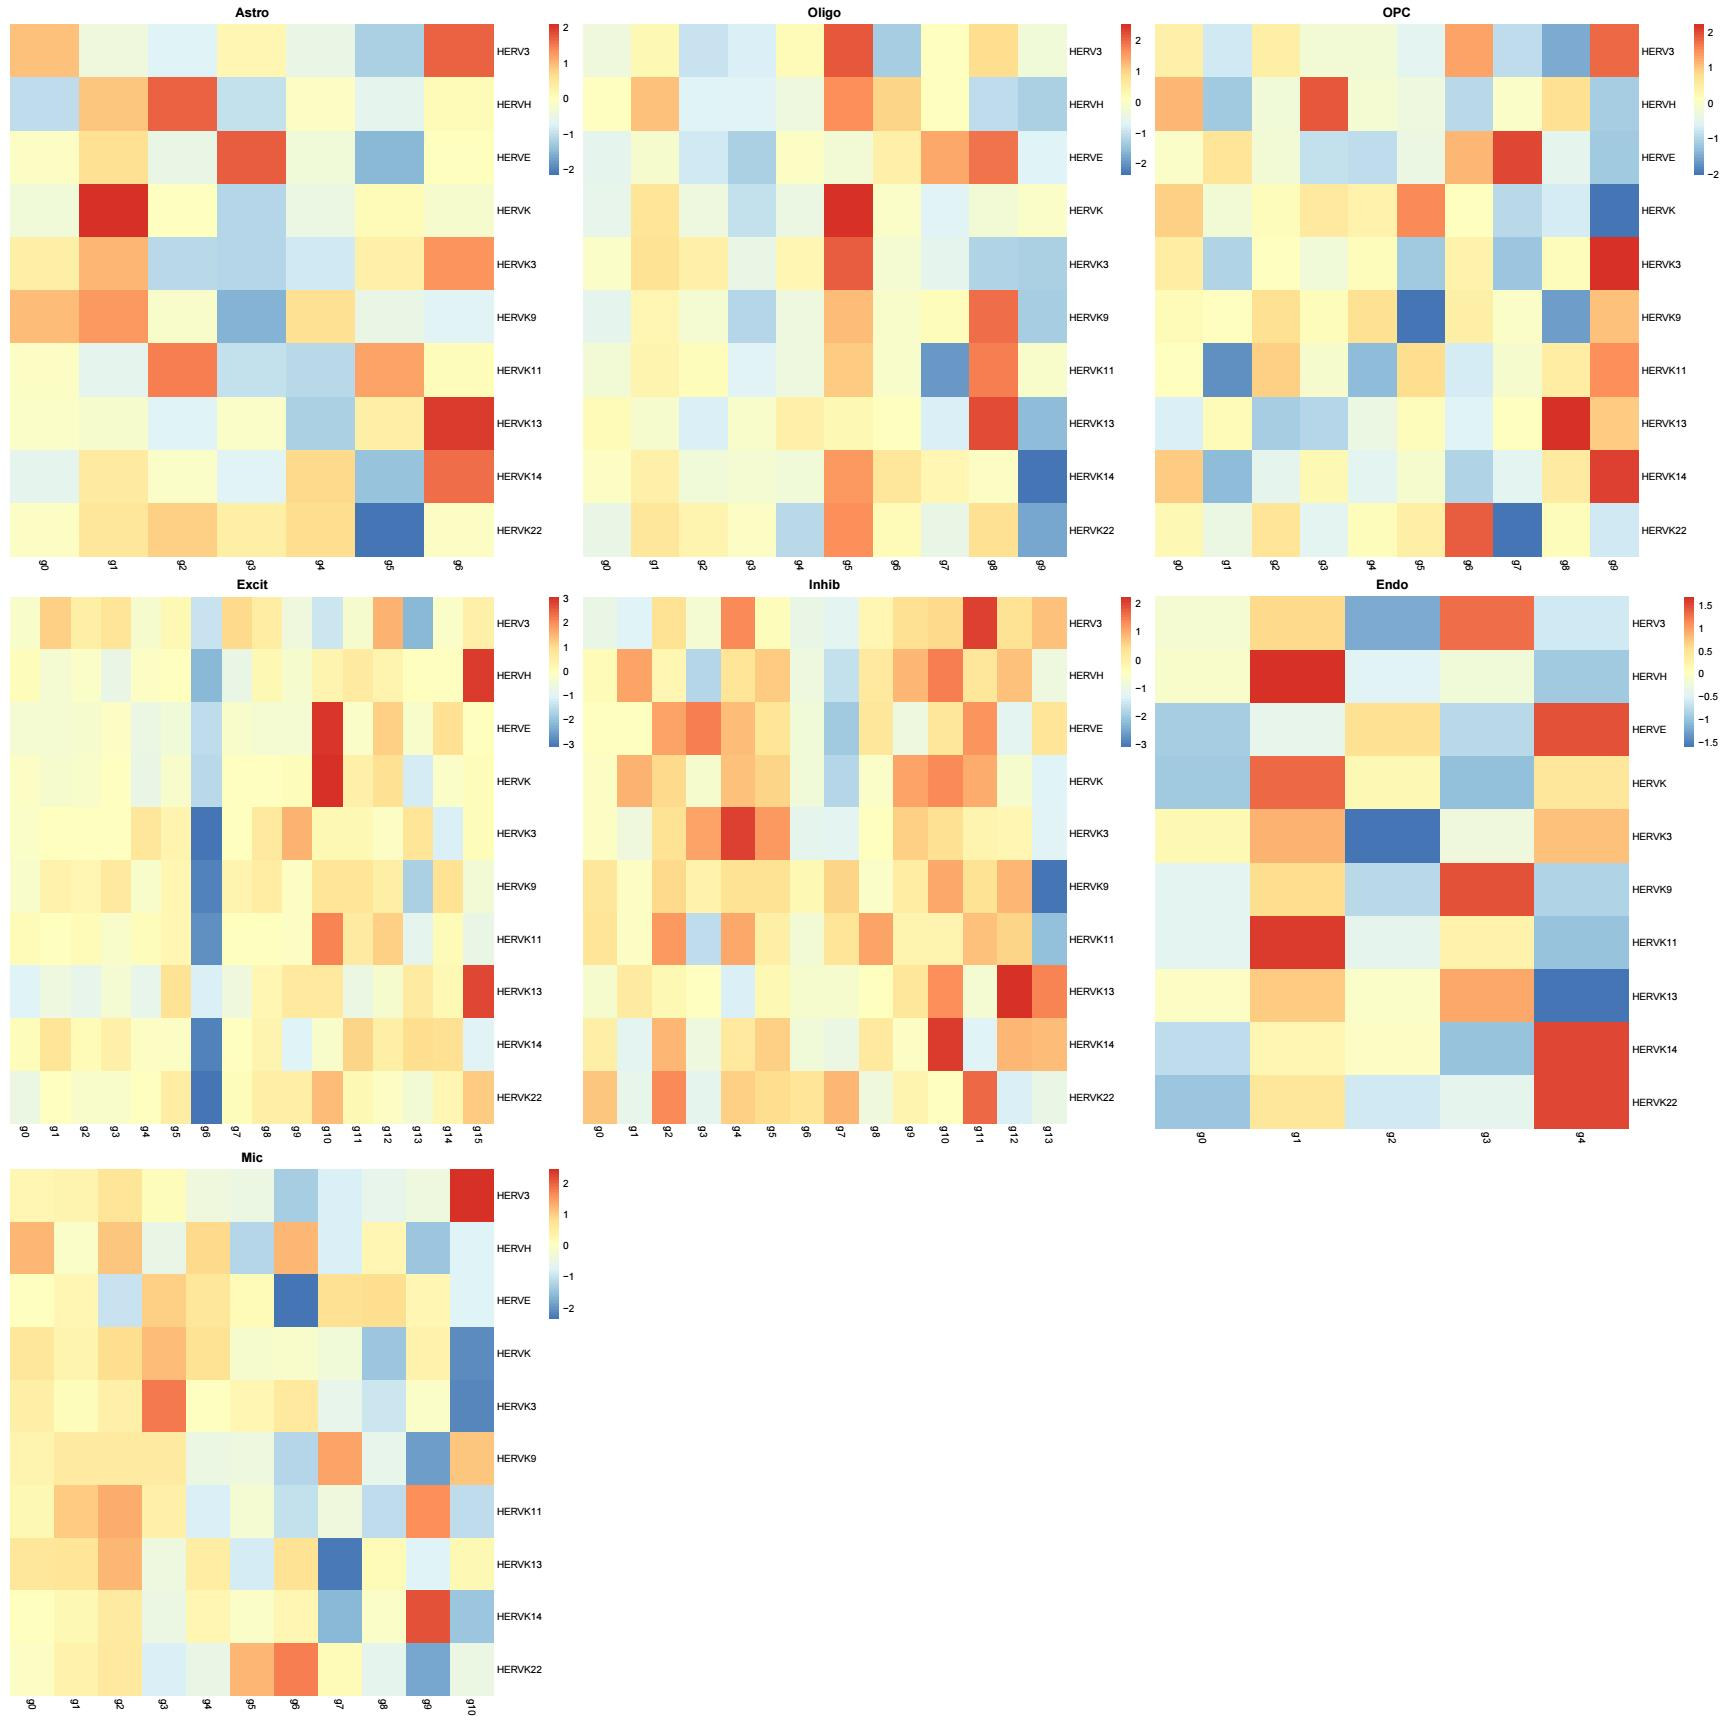
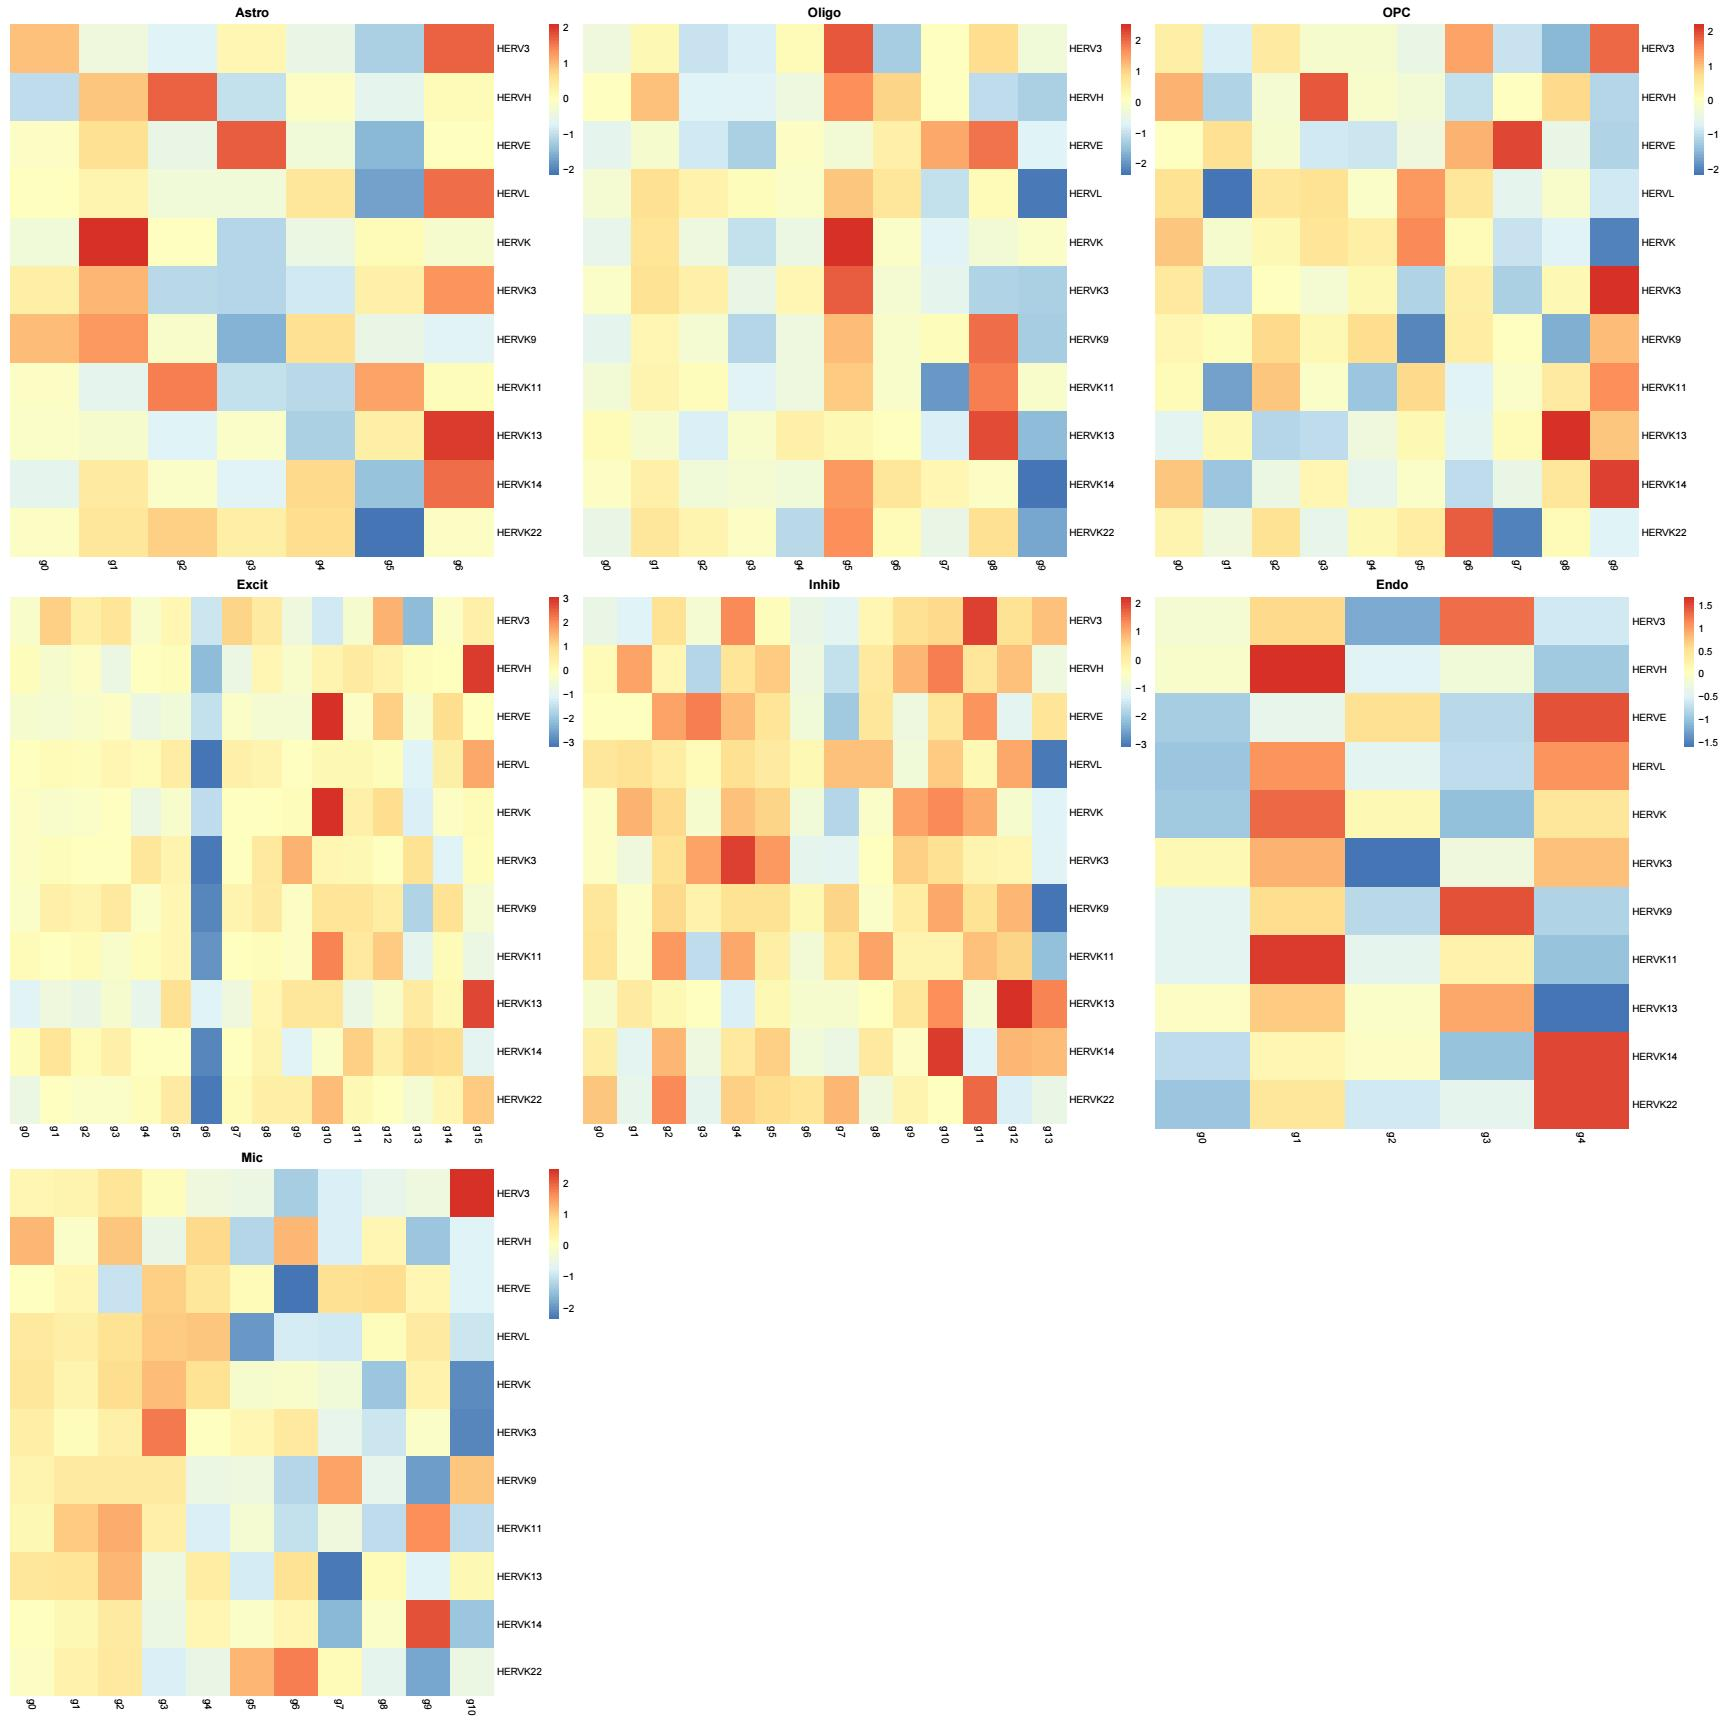
0417

diff --git a/_posts/2022-12-21-my_GSE157827_6.md b/_posts/2022-12-21-my_GSE157827_6.md
@@ -263,21 +263,21 @@ mic的cluster2：
 - hERV更像是反映细胞状态轴的标志，而不是简单的AD/NC二分类标志
 
 主线：
-- **Oligo**：在少突胶质细胞中，hERV高表达并不对应单一转录程序，而是分化为至少三类状态。整体上，hERV更稳定地关联到“广义信号调节/状态重塑”模块。但在具体亚群层面，尤其是**HERVK/HERVK9**相关的状态，又可进一步分化为膜脂与信号重塑、细胞骨架/黏附重塑以及成熟髓鞘化背景下的高翻译/高氧化磷酸化三类程序
-  - cluster 5：更像以**HERVK/HERVK9**为代表的hERV激活型，偏脂质代谢、膜转运、信号/修饰重塑
-  - cluster 3：更像结构重塑/黏附变化/分化相关状态，可能更偏向**HERVK3**关联的细胞骨架和黏附重塑程序
-  - cluster 9：最清楚，GO直接落在cytoplasmic translation/oxidative phosphorylation/ATP metabolic process，这说明它是一个成熟髓鞘化、高代谢、高翻译活性的少突状态，一定程度上说明**HERVK/HERVK9**与成熟髓鞘化-高代谢轴相关
-- **Mic**：在小胶质细胞中，hERV高表达状态更倾向于和广义先天免疫/炎症样激活相关，同时伴随翻译/神经互作相关程序的下降。整体上，以**HERVK9/HERVL**为代表的家族与免疫相关模块的相关性最稳定，部分模块中**HERVH**也参与
-  - cluster 2：AD偏多（比全部Mic中的AD比例多13%），HERVK、尤其**HERVK9**相关家族表达较高。与hERV正相关的pink模块上调，而pink模块富集到defense response to virus/response to virus/defense response to symbiont相关，且DEG包括**TLR2/MX2/MX1**；与hERV负相关的blue模块下调，blue模块与learning/cognition/trans-synaptic signaling/neuron projection morphogenesis相关
-  - 除了pink和blue模块，在整体层面，Mic中**HERVK9/HERVL**还与black模块（先天免疫/抗病原体）及yellow模块（蛋白折叠+免疫效应）相关，提示hERV-high的Mic状态不仅是炎症激活，也可能伴随抗原呈递和应激/蛋白稳态变化
+- **Oligo**：在少突胶质细胞中，hERV高表达并不对应单一转录程序，而是分化为至少三类状态。整体上，hERV更稳定地关联到“广义信号调节/状态重塑”模块。但在具体亚群层面，尤其是**HERVK相关家族和hERVH**相关的状态，又可进一步分化为膜脂与信号重塑、细胞骨架/黏附重塑以及成熟髓鞘化背景下的高翻译/高氧化磷酸化三类程序
+  - cluster 3：**HERVK3**相关的结构重塑/黏附变化状态，对应细胞骨架、黏附及分化相关程序
+  - cluster 5：表现为更广泛的hERV上调，不仅包括**HERVK/HERVK3**，还包括**HERV3/HERVH/HERVL**等多个家族，因此更适合概括为一个多家族共同参与的广义hERV激活/重塑型亚群，其功能偏向脂质代谢、膜转运以及信号/修饰重塑
+  - cluster 9：只有**HERVK11**上调，其他hERV家族整体偏低，一个成熟髓鞘化、高代谢、高翻译活性的少突状态，并与**HERVK11**选择性相关
+- **Mic**：在小胶质细胞中，hERV高表达状态更倾向于和广义先天免疫/炎症样激活相关，同时伴随翻译/神经互作相关程序的下降。整体上，以**HERVK9/HERVL/HERVH**为代表的家族与免疫相关模块的相关性最稳定
+  - cluster 2：AD偏多（比全部Mic中的AD比例多13%），**HERVK相关家族**表达较高。与hERV正相关的pink模块上调，而pink模块富集到defense response to virus/response to virus/defense response to symbiont相关，且DEG包括**TLR2/MX2/MX1**；与hERV负相关的blue模块下调，blue模块与learning/cognition/trans-synaptic signaling/neuron projection morphogenesis相关
+  - 除了pink和blue模块，在整体层面，Mic中**HERVK9/HERVL/HERVH**还与black模块（先天免疫/抗病原体）及yellow模块（蛋白折叠+免疫效应）相关，提示hERV-high的Mic状态不仅是炎症激活，也可能伴随抗原呈递和应激/蛋白稳态变化
 
 支持性结果：
-- **Excit**：提供了一个和神经胶质细胞不同的模式——在兴奋性神经元中，**HERVL/HERVK9**升高更可能与突触传递程序减弱相联系；反过来，hERV较低的神经元状态保留了更强的突触传递和囊泡循环程序
+- **Excit**：提供了一个和神经胶质细胞不同的模式——在兴奋性神经元中，**HERVL/HERVK9/HERVK**升高更可能与突触传递程序减弱相联系；反过来，hERV较低的神经元状态保留了更强的突触传递和囊泡循环程序
   - cluster 6的hERV表达量低，在red和black模块上调，而red和black的GO都是突触和信号传递相关的
-  - 这说明与胶质细胞中 hERV 更多关联于激活/重塑/炎症类状态不同，在神经元中，hERV更像和“突触功能下降”相联系
+  - 这说明与胶质细胞中hERV更多关联于激活/重塑/炎症类状态不同，在神经元中，hERV更像和“突触功能下降”相联系
 - **astro**：在星形胶质细胞中，hERV相关模块主要连接到gliogenesis、cell-cell signaling和synapse organization，提示其更可能反映胶质细胞参与神经支持和细胞间通讯的状态，也存在免疫/细胞因子响应方向的hERV关联，但强度和清晰度不如Mic，更像“胶质支持/分化+轻度炎症响应”的背景状态
 
-**总述**：hERV重调在AD脑内具有明显的细胞类型和细胞状态依赖性。在不同细胞类型中，hERV并非统一对应同一种病理程序，而是分别耦联到不同的转录模块：在oligo中，以**HERVK/HERVK9**为代表的家族主要与膜脂重塑、细胞骨架重塑及成熟髓鞘化/高代谢状态相关；在Mic中，以**HERVK9/HERVL**为代表的家族主要与广义先天免疫/炎症样激活、抗原呈递样程序增强相关，并与稳态和翻译程序下降相联系；在Astro中，**HERVK9**相关性更突出，更多关联于胶质分化、神经支持与轻度细胞因子响应；而在Excit中，**HERVL/HERVK9**升高则更可能与突触传递程序减弱相联系。除此之外，在OPC中也存在一定STAT1/外源刺激响应线索，在Inhib中与突触功能和蛋白折叠/应激有关，在Endo中与DNA合成/细胞分裂、神经和蛋白质相关功能有关，但与hERV的相关性较弱或者GO富集结果不显著，还需要更多验证
+**总述**：hERV重调在AD脑内具有明显的细胞类型和细胞状态依赖性。在不同细胞类型中，hERV并非统一对应同一种病理程序，而是分别耦联到不同的转录模块：在oligo中，不同hERV家族分别对应结构重塑、广义膜脂/信号重塑以及成熟髓鞘化/高代谢状态，其中HERVK3更偏向结构重塑，HERVK/HERVK3/HERV3/HERVH/HERVL更偏向广义激活/重塑，HERVK11则更可能与成熟髓鞘化-高代谢状态选择性相关；在Mic中，以**HERVK9/HERVL/HERVH**为代表的家族主要与广义先天免疫/炎症样激活、抗原呈递样程序增强相关，并与稳态和翻译程序下降相联系；在Astro中，HERV更多关联于胶质分化、神经支持与轻度细胞因子响应；而在Excit中，**HERVL/HERVK9/HERVK**升高则更可能与突触传递程序减弱相联系。除此之外，在OPC中也存在一定STAT1/外源刺激响应线索，在Inhib中与突触功能和蛋白折叠/应激有关，在Endo中与DNA合成/细胞分裂、神经和蛋白质相关功能有关，但与hERV的相关性较弱或者GO富集结果不显著，还需要更多验证
 
 ---
 

diff --git a/_posts/2022-11-30-毕设过程中的结果图汇总.md b/_posts/2022-11-30-毕设过程中的结果图汇总.md
@@ -1,11 +1,11 @@
 ---
 layout: mypost
-title: 毕设正文和图片
+title: 毕设过程中的结果图汇总
 category: other
 subcategory: other-other
 ---
 
-毕设正文和图片（草稿）
+涉及到的各种结果图，并不一定都写在正文中
 
 <!-- more -->
 
@@ -228,13 +228,9 @@ GSE157827：
 
 family：
 
-![毕设正文和图片14](/upload/md-image/other/毕设正文和图片14.jpg){:width="800px" height="800px"}
-
-![毕设正文和图片15](/upload/md-image/other/毕设正文和图片15.jpg){:width="800px" height="800px"}
+![毕设正文和图片15](/upload/md-image/other/毕设正文和图片15.jpeg){:width="800px" height="800px"}
 
 group：
-
-![毕设正文和图片16](/upload/md-image/other/毕设正文和图片16.jpg){:width="800px" height="800px"}
 
 ![毕设正文和图片17](/upload/md-image/other/毕设正文和图片17.jpg){:width="800px" height="800px"}
 
@@ -252,7 +248,7 @@ family_LTR_scTE：
 
 family：
 
-![毕设正文和图片21](/upload/md-image/other/毕设正文和图片21.jpg){:width="800px" height="800px"}
+![毕设正文和图片21](/upload/md-image/other/毕设正文和图片21.jpeg){:width="800px" height="800px"}
 
 group：
 
@@ -290,19 +286,14 @@ family_LTR_scTE：
 
 ### 其它结果图
 
-#### 各细胞类型的hERV表达量和logFC热图
-
-所有细胞：
+#### 各细胞类型的hERV表达量和DE显著性
 
 ![毕设正文和图片18](/upload/md-image/other/毕设正文和图片18.jpg){:width="800px" height="800px"}
 
-GSE174367：
+#### 共表达网络组合图
 
-![毕设正文和图片19](/upload/md-image/other/毕设正文和图片19.jpg){:width="800px" height="800px"}
 
-GSE157827：
 
-![毕设正文和图片20](/upload/md-image/other/毕设正文和图片20.jpg){:width="800px" height="800px"}
 
 ### 总结
 
